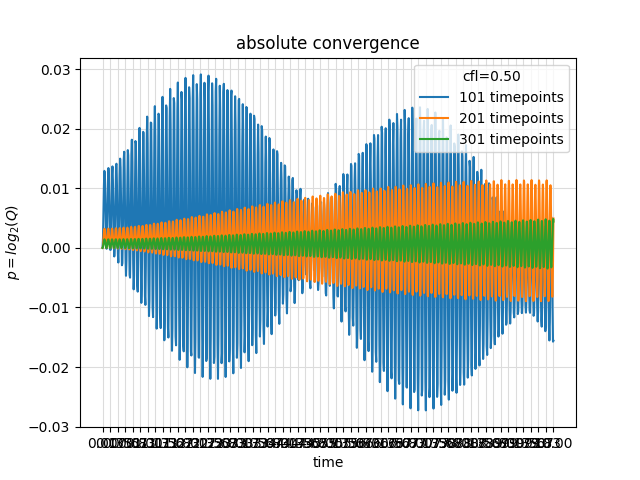
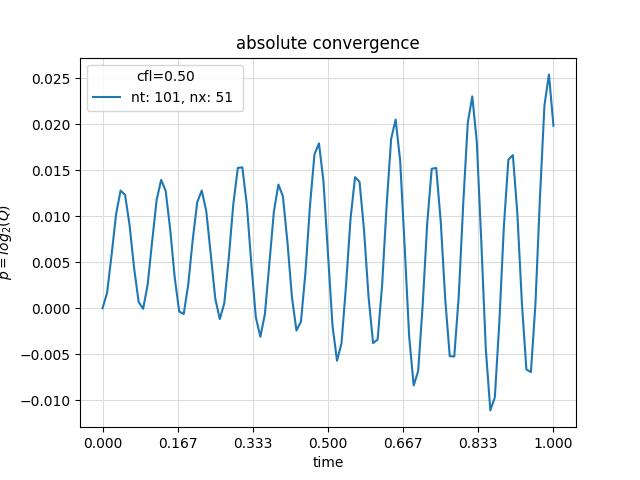
open_iii work
trying and failing to find more suitable and convergent open boundariy conditions for iii)

diff --git a/python/solver.py b/python/solver.py
@@ -9,7 +9,7 @@ coeffDict = {2:[1,-2,1],4:[-1/12,4/3,-5/2,4/3,-1/12], 6:[1/90,-3/20,3/2,-49/18,3
 
 ### wave equation 0.2
 # d phi / d t = phi
-# d Pi / d t = c^2 d^2 phi / d x^2
+# d pi / d t = c^2 d^2 phi / d x^2
 
 ### discretize time and space with uniform grid
 def gridmaker1(endT,nt,endX,nx,startX=0,startT=0):
@@ -35,9 +35,9 @@ def gridmaker(endT,maxX,courant=1):
 
 
 
-def wave_evolution1D(phi0,Pi0,timevalues,xvalues,bc,potential,order=2):
+def wave_evolution1D(phi0,pi0,timevalues,xvalues,bc,potential,order=2):
   if bc != "periodic" and order != 2:
-      print("for this accuracy order we only implemented 'periodic' boundary conditions, results may not be correct.")
+      print("for this accuracy order we only implemented 'periodic' and 'open_i' boundary conditions, results may not be correct.")
   binomcoeffs = coeffDict[order]
   Nt = len(timevalues)
   Nx = len(xvalues)
@@ -46,54 +46,75 @@ def wave_evolution1D(phi0,Pi0,timevalues,xvalues,bc,potential,order=2):
   # print(deltax)
   deltat = timevalues[Nt-1]/(Nt-1)
   phi = np.zeros([Nt,Nx+order])     # add 1 ghost point at each end for each order
-  Pi = np.zeros([Nt,Nx+order])
+  pi = np.zeros([Nt,Nx+order])
   ho = int(order/2) # half order, i.e. number of ghosts on each side
 
   ### first time step
-  phi[0,ho:Nx+ho] = phi0          # fill inner points with given Phi0 and Pi0
-  Pi[0,ho:Nx+ho] = Pi0
+  phi[0,ho:Nx+ho] = phi0          # fill inner points with given Phi0 and pi0
+  pi[0,ho:Nx+ho] = pi0
   potential = np.insert(potential,0,ho*[potential[ho]])   # expand potential to fit to ghosts
   potential = np.append(potential,ho*[potential[-1]])
 
-  def rhs(phi,Pi,t):
+  def rhs(phi,pi,t):
     if bc == "periodic":
       phi[0:ho] = phi[-order-1:-ho-1] # filling ghost points at the beginning
       phi[-1:-ho-1:-1] = phi[order:order-ho:-1] # filling ghost points at the end
-      Pi[0:ho] = Pi[-order-1:-ho-1]  # filling ghost points at the beginning
-      Pi[-1:-ho-1:-1] = Pi[order:order-ho:-1] # filling ghost points at the end
+      pi[0:ho] = pi[-order-1:-ho-1]  # filling ghost points at the beginning
+      pi[-1:-ho-1:-1] = pi[order:order-ho:-1] # filling ghost points at the end
     elif bc == "Dirichlet": # like a string
       phi[0] = - phi[2]
       phi[-1] = - phi[-3]
-      Pi[0] = - Pi[2]
-      Pi[-1] = - Pi[-3]
+      pi[0] = - pi[2]
+      pi[-1] = - pi[-3]
     elif bc == "vonNeumann": # like a reflected water wave
       phi[0] = phi[1]
       phi[-1] = phi[-2]
-      Pi[0] = Pi[1]
-      Pi[-1] = Pi[-2]
+      pi[0] = pi[1]
+      pi[-1] = pi[-2]
     elif bc == "open_i":     # variant (i)
+      # for i in range(ho):
+      #     phi[i] = phi[ho] + (ho-i)*(phi[ho]-phi[ho+1])
+      #     pi[i] = pi[ho] + (ho-i)*(pi[ho]-pi[ho+1])
+      #     phi[-i] = phi[-ho] + (ho-i)*(phi[-ho]-phi[-ho-1])
+      #     pi[-i] = pi[-ho] + (ho-i)*(pi[-ho]-pi[-ho-1])
       phi[0] = 2 * phi[1] - phi[2]
       phi[-1] = 2 * phi[-2] - phi[-3]
-      Pi[0] = 2 * Pi[1] - Pi[2]
-      Pi[-1] = 2* Pi[-2] - Pi[-3]
+      pi[0] = 2 * pi[1] - pi[2]
+      pi[-1] = 2* pi[-2] - pi[-3]
     elif bc == "open_ii":         # variant (ii)
-      phi[0] = phi[2] - 2*Pi[1] * deltax/c
-      phi[-1] = phi[-3] - 2*Pi[-2] * deltax/c
-      Pi[0] = Pi[2] - 2*phi[1] * deltax/c
-      Pi[-1] = Pi[-3] - 2*phi[-2] * deltax/c
+      phi[0] = phi[2] - 2*pi[1] * deltax/c
+      phi[-1] = phi[-3] - 2*pi[-2] * deltax/c
+      pi[0] = pi[2] - 2*phi[1] * deltax/c
+      pi[-1] = pi[-3] - 2*phi[-2] * deltax/c
     elif bc == "open_iii":         # variant (iii)
-      phi[0] =  - deltax*(2*Pi[1] - Pi[2])/c + phi[1]
-      phi[-1] =  - deltax*(2*Pi[-2] - Pi[-3])/c + phi[-2]
-      Pi[0] =  (phi[0] - phi[1])/deltax #(2 * phi[1] - phi[2])/deltax + Pi[1] #
-      Pi[-1] = (phi[-1] - phi[-2])/deltax # (2 * phi[-2] - phi[-3])/deltax + Pi[-2] # 
+      g = 0
+      phi[0] = phi[2] + 2*deltax*(g-pi[1])      # from arxiv
+      phi[-1] = phi[-3] + 2*deltax*(g-pi[-2])   # from arxiv
+      pi[0] = 2 * pi[1] - pi[2]                 # from arxiv
+      pi[-1] = 2 * pi[-2] - pi[-3]              # from arxiv
+      # pi[0] = pi[3] -3*pi[2] +3*pi[1]
+      # pi[-1] = pi[-4] -3*pi[-3] +3*pi[-1]
 
+      # phi[0] = - deltax*(2*pi[1] - pi[2])/c + phi[1]      # original
+      # phi[-1] = - deltax*(2*pi[-2] - pi[-3])/c + phi[-2]  # original
+      # pi[0] = c*(2*phi[1] - phi[2])/deltax + pi[1]        # original
+      # pi[-1] = c*(2*phi[-2] - phi[-3])/deltax + pi[-2]    # original
+
+      # pi[0] = (-(3/2)*phi[0] + 2*phi[1] - (1/2)*phi[2])*c/deltax
+      # pi[-1] = (+(3/2)*phi[-1] - 2*phi[-2] + (1/2)*phi[-3])*c/deltax
+      # pi[0] = c*(phi[0] - phi[1])/deltax     #
+      # pi[-1] = c*(phi[-1] - phi[-2])/deltax   #
+
+      # phi[0] = (2/3)*(2*phi[1] -(1/2)*phi[2] -deltax*pi[0])
+      # phi[-1] = (2/3)*(2*phi[-2] -(1/2)*phi[-3] -deltax*pi[-1])
+      
     # compute second spatial derivative (d^2 phi / dx^2) with FiniteDifferencing
     d2phidx2= np.zeros(Nx+order)
     for ix in range(ho,Nx+ho): # computing only inner points
       d2phidx2[ix] = 1/deltax**2 * sum(binomcoeffs[i]*phi[ix+i-ho] for i in range(0,order+1))
-    dphidt = Pi
-    dPidt = c**2 * d2phidx2 + potential*phi
-    return dphidt, dPidt
+    dphidt = pi
+    dpidt = c**2 * d2phidx2 + potential*phi
+    return dphidt, dpidt
 
   # for i in range(0,order+1):
   #     print("use index:", i-ho, "with coefficient ", binomcoeffs[i] )
@@ -101,21 +122,21 @@ def wave_evolution1D(phi0,Pi0,timevalues,xvalues,bc,potential,order=2):
   t = 1 #dummy value
   # time iteration (RK4 method)
   for i in range(0,Nt-1):
-    k1_phi, k1_Pi = rhs(phi[i,:], Pi[i], t)
-    k2_phi, k2_Pi = rhs(phi[i,:] + 0.5*deltat*k1_phi,Pi[i,:] + 0.5*deltat*k1_Pi,t + 0.5*deltat)
-    k3_phi, k3_Pi = rhs(phi[i,:] + 0.5*deltat*k2_phi,Pi[i,:] + 0.5*deltat*k2_Pi ,t + 0.5*deltat)
-    k4_phi, k4_Pi = rhs(phi[i,:] + deltat*k3_phi,Pi[i,:] + deltat*k3_Pi ,t + deltat)
+    k1_phi, k1_pi = rhs(phi[i,:], pi[i], t)
+    k2_phi, k2_pi = rhs(phi[i,:] + 0.5*deltat*k1_phi, pi[i,:] + 0.5*deltat*k1_pi, t + 0.5*deltat)
+    k3_phi, k3_pi = rhs(phi[i,:] + 0.5*deltat*k2_phi, pi[i,:] + 0.5*deltat*k2_pi, t + 0.5*deltat)
+    k4_phi, k4_pi = rhs(phi[i,:] + deltat*k3_phi, pi[i,:] + deltat*k3_pi, t + deltat)
 
     phi[i+1,:] = phi[i,:] + deltat*(1/6*k1_phi + 1/3*k2_phi +1/3*k3_phi + 1/6*k4_phi)
-    Pi[i+1,:] = Pi[i,:] + deltat*(1/6*k1_Pi + 1/3*k2_Pi +1/3*k3_Pi + 1/6*k4_Pi)
+    pi[i+1,:] = pi[i,:] + deltat*(1/6*k1_pi + 1/3*k2_pi +1/3*k3_pi + 1/6*k4_pi)
 
   print("calculation finished.")
-  return phi[:,ho:Nx+ho], Pi[:,ho:Nx+ho] # return only inner points
+  return phi[:,ho:Nx+ho], pi[:,ho:Nx+ho] # return only inner points
 
 #--------------------- take a look at the energy -------------------
 #-------------------------------------------------------------------
 def energy(q,p):        #calculate energy from position q(phi) and inertia p(pi)
-    m=1
+    m = 1
     E = 0.5* p**2 / m + 0.5* q**2 *m
     return E
 def total_energy(phi,pi):

diff --git a/python/waveconvergence_2.py b/python/waveconvergence_2.py
@@ -9,7 +9,8 @@ def self_convergence_plotting_2(cfl, Nt, selfQ, endT):
     for i in range(len(Nt)):
         timevalues = np.linspace(0,endT,int(Nt[i])+1)
         ax1.plot(timevalues,selfQ[i],'-',
-                label = '%d timepoints' %( int(Nt[i])+1 ) )
+                label = 'nt: %d, nx: %d ' %( int(Nt[i])+1, int(cfl*Nt[i])+1 )
+                )
     plt.xticks(np.linspace(0,endT,7))
     plt.title('self convergence')
     ax1.legend(title = 'cfl=%.2f' %(cfl))
@@ -22,7 +23,8 @@ def abs_convergence_plotting_2(cfl, Nt, absQ, endT):
     for i in range(len(Nt)):
         timevalues = np.linspace(0,endT,int(Nt[i])+1)
         ax1.plot(timevalues,absQ[i],'-',
-                label = '%d timepoints' %( int(Nt[i])/endT +1 ) )
+                label = 'nt: %d, nx: %d ' %( int(Nt[i])+1, int(cfl*Nt[i])+1 )
+                )
     plt.xticks(np.linspace(0,endT,endT*6+1))
     plt.title('absolute convergence')
     ax1.legend(title = 'cfl=%.2f' %(cfl))
@@ -61,7 +63,7 @@ def abs_convergence(ana,num1,num2):
 
 #---------------main function -------------------------------------------
 
-def convergence_test(cfl,Nt,bc,funchandle,endT=1,endX=1):
+def convergence_test(cfl,Nt,bc,funchandle,endT=1,endX=1,order=1):
     Nx = int(cfl*Nt/endT)
 
     # num1
@@ -69,7 +71,7 @@ def convergence_test(cfl,Nt,bc,funchandle,endT=1,endX=1):
     # print('xvalues\n',xvalues)
     potential = zero_potential(xvalues)
     Phi0, Pi0 = IVmaker(funchandle,xvalues,1,1,1,1)
-    Phi, Pi = wave_evolution1D(Phi0,Pi0,timevalues,xvalues,bc,potential)
+    Phi, Pi = wave_evolution1D(Phi0,Pi0,timevalues,xvalues,bc,potential,order)
     num1 = Phi[0::1]
     # print('num1(t=0):\n',num1[0])
     # print('timevalues:\n', timevalues )
@@ -89,7 +91,7 @@ def convergence_test(cfl,Nt,bc,funchandle,endT=1,endX=1):
     dt,timevalues,dx,xvalues = gridmaker1(endT, 2*Nt, endX, 2*Nx)
     potential = zero_potential(xvalues)
     Phi0, Pi0 = IVmaker(funchandle,xvalues,1,1,1,1)
-    Phi, Pi = wave_evolution1D(Phi0,Pi0,timevalues,xvalues,bc,potential,)
+    Phi, Pi = wave_evolution1D(Phi0,Pi0,timevalues,xvalues,bc,potential,order)
     num2 = Phi[0::2,0::2]
     # print('shape(num2): ', np.shape(num2))
     # # print('shape(timevalues2): ',np.shape(timevalues[0::2]))
@@ -99,7 +101,7 @@ def convergence_test(cfl,Nt,bc,funchandle,endT=1,endX=1):
     dt,timevalues,dx,xvalues = gridmaker1(endT, 4*Nt, endX, 4*Nx)
     potential = zero_potential(xvalues)
     Phi0, Pi0 = IVmaker(funchandle,xvalues,1,1,1,1)
-    Phi, Pi = wave_evolution1D(Phi0,Pi0,timevalues,xvalues,bc,potential)
+    Phi, Pi = wave_evolution1D(Phi0,Pi0,timevalues,xvalues,bc,potential,order)
     num3 = Phi[0::4,0::4]
     # print('shape(num2): ', np.shape(num2))
     # print('timevalues3:', timevalues)
@@ -110,7 +112,7 @@ def convergence_test(cfl,Nt,bc,funchandle,endT=1,endX=1):
 
 if __name__ == "__main__":
     cfl = 0.5
-    endT = 1
+    endT = 2
     endX = 1
     tests = 1
     bc = 'open_iii'
@@ -120,8 +122,9 @@ if __name__ == "__main__":
     selfQs = []
     absQs = []
     fhandle = "sine4"
+    o = 2
     for i in range(len(Nt)):
-        selfQ, absQ = convergence_test(cfl,int(Nt[i]),bc,fhandle,endT,endX)
+        selfQ, absQ = convergence_test(cfl,int(Nt[i]),bc,fhandle,endT,endX,o)
         selfQs.append(selfQ)
         absQs.append(absQ)
     fig1 = self_convergence_plotting_2(cfl, Nt, selfQs, endT)

diff --git a/python/solver2D.py b/python/solver2D.py
@@ -42,7 +42,7 @@ def wave_evolution2D(phi0,Pi0,timevalues,xvalues,bc,potential,order):
   binomcoeffs = coeffDict[order]
   Nt = len(timevalues)
   Nx = len(xvalues)
-  Ny = Nx
+  Ny = len(xvalues)
   yvalues = xvalues
 
   deltax = (xvalues[Nx-1]-xvalues[0])/(Nx-1)
@@ -144,9 +144,9 @@ def wave_evolution2D(phi0,Pi0,timevalues,xvalues,bc,potential,order):
   t = 1 #dummy value
   for i in range(0,Nt-1):
     k1_phi, k1_Pi = rhs(phi[i,:,:], Pi[i,:,:], t)
-    k2_phi, k2_Pi = rhs(phi[i,:,:] +0.5*deltat*k1_phi, Pi[i,:,:] +0.5*deltat*k1_Pi,t +0.5*deltat)
-    k3_phi, k3_Pi = rhs(phi[i,:,:] +0.5*deltat*k2_phi,Pi[i,:,:] +0.5*deltat*k2_Pi ,t +0.5*deltat)
-    k4_phi, k4_Pi = rhs(phi[i,:,:] + deltat*k3_phi,Pi[i,:,:] + deltat*k3_Pi ,t + deltat)
+    k2_phi, k2_Pi = rhs(phi[i,:,:] + 0.5*deltat*k1_phi, Pi[i,:,:]+0.5*deltat*k1_Pi, t+0.5*deltat)
+    k3_phi, k3_Pi = rhs(phi[i,:,:] + 0.5*deltat*k2_phi, Pi[i,:,:]+0.5*deltat*k2_Pi , t+0.5*deltat)
+    k4_phi, k4_Pi = rhs(phi[i,:,:] + deltat*k3_phi, Pi[i,:,:]+deltat*k3_Pi , t+deltat)
 
     phi[i+1,:,:] = phi[i,:,:] + deltat*(1/6*k1_phi + 1/3*k2_phi +1/3*k3_phi + 1/6*k4_phi)
     Pi[i+1,:,:] = Pi[i,:,:] + deltat*(1/6*k1_Pi + 1/3*k2_Pi +1/3*k3_Pi + 1/6*k4_Pi)
@@ -238,6 +238,7 @@ if __name__ == "__main__":
         Phi0[ix,iy] = gaussian(xvalues[ix],yvalues[iy],sigma,mux,muy,ampl)
 
 
+<<<<<<< Updated upstream
     bc = 'open'
     order= 2
     Phi, Pi = wave_evolution2D(Phi0,Pi0,timevalues,xvalues,bc,potential,order)
@@ -246,3 +247,12 @@ if __name__ == "__main__":
     plot_xt_evolution_heatmap(xvalues,yvalues,Phi[40,:,:])
     plot_2D_heatmap_animation(xvalues,yvalues,timevalues, Phi,'mp4')
   
+=======
+    bc = 'periodic'
+    order = 2
+    Phi, Pi = wave_evolution2D(Phi0,Pi0,timevalues,xvalues,bc,potential,order)
+    # print(Phi)
+
+    plot_xt_evolution_heatmap(xvalues,yvalues,Phi0)
+    plot_2D_heatmap_animation(xvalues,yvalues,timevalues, Phi,'mp4')
+>>>>>>> Stashed changes

diff --git a/python/main.py b/python/main.py
@@ -5,7 +5,7 @@ from results_plotting import *
 # -------------------- now, do it ---------------
 if __name__ == "__main__":
     endT = 1
-    Nt = 200
+    Nt = 100
     startX = 0
     endX = 1
     Nx = 50
@@ -29,11 +29,11 @@ if __name__ == "__main__":
     potential = zero_potential(xvalues)
     # plot_potential(xvalues,potential)
 
-    Phi0, Pi0 = IVmaker('gauss',xvalues,sigma,mu,width,k,ampl) # phi: Zeilen: Zeit, Spalten: Ort
+    Phi0, Pi0 = IVmaker('sine4',xvalues,sigma,mu,width,k,ampl) # phi: Zeilen: Zeit, Spalten: Ort
     bc = 'open_iii'
     order = 2
-    Phi, Pi = wave_evolution1D(Phi0,Pi0,timevalues,xvalues,bc,potential,order)
-    print("calculation finished.")
+    Phi, Pi = wave_evolution1D(Phi0,-Pi0,timevalues,xvalues,bc,potential,order)
+    print("calculation finished. (main)")
 
     # Etotal = total_energy(Phi,Pi)
 
